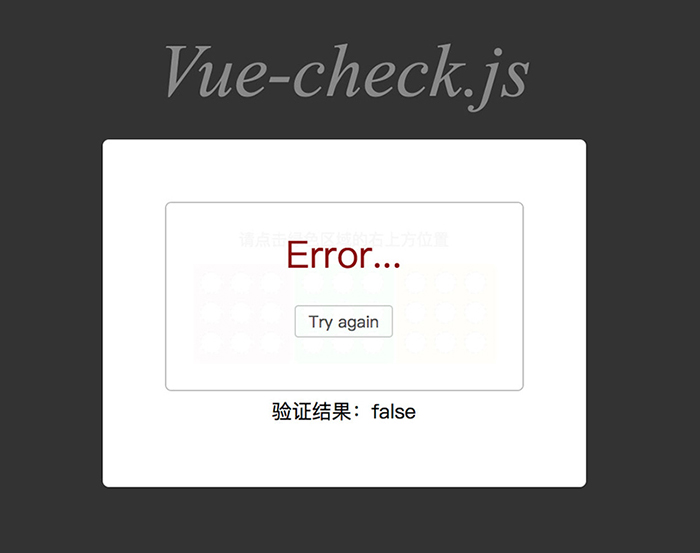
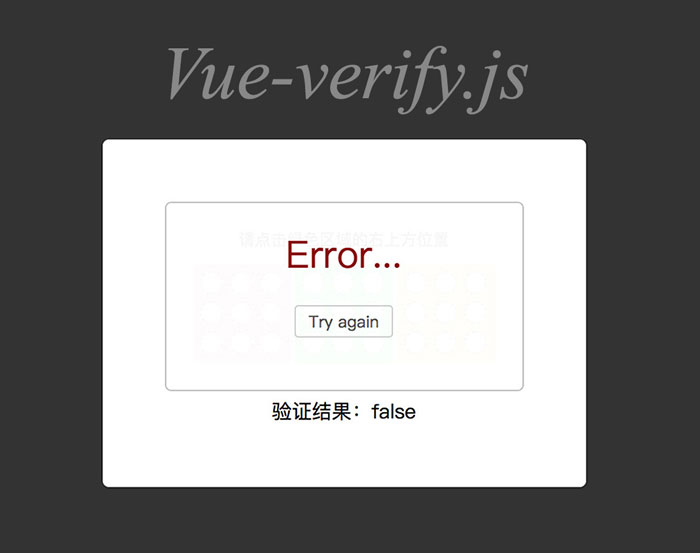
添加图形验证功能

Changed region(s): [[0.24, 0.0615, 0.75, 0.2152]]

diff --git a/assets/js/vue-verify.js b/assets/js/vue-verify.js
@@ -6,38 +6,39 @@
 
 	var Verify = {};
 	Verify.install = function (Vue, options) {
+		let def = {
+			mode:'position',
+			area: [
+				{ key: 1, value: 'rgb(255, 237, 237)', label: '红色' },
+				{ key: 2, value: 'rgb(208, 252, 223)', label: '绿色' },
+				{ key: 3, value: 'rgb(255, 240, 199)', label: '橘黄色' }
+			],
+			position: [
+				{ key: 1, label: '左上方位置' },
+				{ key: 2, label: '正上方位置' },
+				{ key: 3, label: '右上方位置' },
+				{ key: 4, label: '左边位置' },
+				{ key: 5, label: '中间位置' },
+				{ key: 6, label: '右边位置' },
+				{ key: 7, label: '左下方位置' },
+				{ key: 8, label: '正下方位置' },
+				{ key: 9, label: '右下方位置' }
+			],
+			success: 'Success!',
+			successSub: 'Good job,dude!',
+			error: 'Error...',
+			errorSub: 'Try again'
+		}
+		if (options) {
+			for (let property in options) {
+				if (options[property]) {
+					def[property] = options[property];
+				}
+			}
+		}
 		Vue.prototype.$verify = function ($el, cb) {
 			let toastTpl = Vue.extend({
 				data() {
-					let def = {
-						area: [
-							{ key: 1, value: 'rgb(255, 237, 237)', label: '红色' },
-							{ key: 2, value: 'rgb(208, 252, 223)', label: '绿色' },
-							{ key: 3, value: 'rgb(255, 240, 199)', label: '橘黄色' }
-						],
-						position: [
-							{ key: 1, label: '左上方位置' },
-							{ key: 2, label: '正上方位置' },
-							{ key: 3, label: '右上方位置' },
-							{ key: 4, label: '左边位置' },
-							{ key: 5, label: '中间位置' },
-							{ key: 6, label: '右边位置' },
-							{ key: 7, label: '左下方位置' },
-							{ key: 8, label: '正下方位置' },
-							{ key: 9, label: '右下方位置' }
-						],
-						success: 'Success!',
-						successSub: 'Good job,dude!',
-						error: 'Error...',
-						errorSub: 'Try again'
-					}
-					if (options) {
-						for (let property in options) {
-							if (options[property]) {
-								def[property] = options[property];
-							}
-						}
-					}
 					return {
 						opt: def,
 						area: null,
@@ -53,7 +54,9 @@
 							<div class="verify-area">\
 								<div class="verify-item" v-for="(item,index) in opt.area" :key="index" :style=" \'background:\'+item.value ">\
 									<div class="verify-item-wrap">\
-										<span v-for="i in 9" @click="userClick(item.key,i)"></span>\
+										<span v-for="(pos,idx) in opt.position" @click="userClick(item.key,pos.key)" :key="pos.key">\
+										{{ opt.mode === \'shape\' ? pos.label : \'\' }}\
+										</span>\
 									</div>\
 								</div>\
 							</div>\
@@ -65,17 +68,28 @@
 				},
 				methods: {
 					setNewVerify: function () {
+						if( this.opt.mode === 'shape' ){
+							let t, j,arr = this.opt.position,_LEN_ = arr.length;
+							while (_LEN_) { 
+								j = Math.floor(Math.random() * _LEN_--);
+								t = arr[_LEN_]; 
+								arr[_LEN_] = arr[j]; 
+								arr[j] = t; 
+							}
+						}
+
 						const AREA = this.opt.area, POSITION = this.opt.position;
 						//随机选取一个区域与位置
 						this.area = AREA[Math.floor(Math.random() * AREA.length)];
 						this.position = POSITION[Math.floor(Math.random() * POSITION.length)];
+						//console.log(111)
 					},
-					userClick: function (area, position) {
-						let verify = this.area.key === area && this.position.key === position;
-						this.showSuccess = verify;
-						this.showError = !verify;
+					userClick: function (a, b) {
+						let result = this.area.key === a && this.position.key === b;
+						this.showSuccess = result;
+						this.showError = !result;
 						//返回验证结果
-						if (cb) cb(verify);
+						if (cb) cb(result);
 					},
 					again: function () {
 						//重新初始验证

diff --git a/assets/css/index.css b/assets/css/index.css
@@ -1,1 +1,1 @@
-.verify{background:#fff;border-radius:5px;border:1px solid #bbb;position:relative;display:inline-block;padding:20px;text-align:center;font-size:13px;overflow:hidden}.verify .verify-title{padding-bottom:10px;color:#aaa}.verify .verify-area .verify-item{display:inline-block;width:80px;height:80px;border-radius:5px;border:1px solid #fff}.verify .verify-area .verify-item .verify-item-wrap{box-sizing:border-box;display:flex;flex-wrap:wrap;padding:3px 0 0 3px}.verify .verify-area .verify-item span{width:18px;height:18px;background:#fff;border-radius:50%;border:1px dashed #ccc;display:block;margin:3px;cursor:pointer;box-sizing:border-box}.verify .verify-area .verify-item span:hover{border:1px solid #bbb}.verify .verify-error,.verify .verify-success{position:absolute;z-index:2;width:100%;height:100%;left:0;box-sizing:border-box;padding:20px;background:rgba(255,255,255,.9);text-align:center;font-family:Arail;top:-100%;-webkit-transition:.3s ease 0s;-moz-transition:.3s ease 0s;-ms-transition:.3s ease 0s;transition:.3s ease 0s}.verify .verify-error p,.verify .verify-success p{font-size:30px;margin:0}.verify .verify-error span,.verify .verify-success span{font-size:15px;color:#555}.verify .verify-error .verify-btn,.verify .verify-success .verify-btn{border:1px solid #ccc;padding:3px 10px;display:inline-block;border-radius:3px;font-size:13px;margin-top:20px;cursor:pointer}.verify .verify-error .verify-btn:hover,.verify .verify-success .verify-btn:hover{background:#f5f5f5}.verify .verify-success p{color:#116311}.verify .verify-error p{color:#8b0f0f}.verify .verify-error.show,.verify .verify-success.show{top:0}
+.verify{background:#fff;border-radius:5px;border:1px solid #bbb;position:relative;display:inline-block;padding:20px;text-align:center;font-size:13px;overflow:hidden}.verify .verify-title{padding-bottom:10px;color:#aaa}.verify .verify-area .verify-item{display:inline-block;width:80px;height:80px;border-radius:5px;border:1px solid #fff}.verify .verify-area .verify-item .verify-item-wrap{box-sizing:border-box;display:flex;flex-wrap:wrap;padding:3px 0 0 3px}.verify .verify-area .verify-item span{width:18px;height:18px;background:#fff;border-radius:50%;border:1px dashed #ccc;display:block;margin:3px;cursor:pointer;box-sizing:border-box;text-align:center;line-height:18px;vertical-align:middle;font-size:15px;color:#555}.verify .verify-area .verify-item span:hover{border:1px solid #bbb}.verify .verify-error,.verify .verify-success{position:absolute;z-index:2;width:100%;height:100%;left:0;box-sizing:border-box;padding:20px;background:rgba(255,255,255,.9);text-align:center;font-family:Arail;top:-100%;-webkit-transition:.3s ease 0s;-moz-transition:.3s ease 0s;-ms-transition:.3s ease 0s;transition:.3s ease 0s}.verify .verify-error p,.verify .verify-success p{font-size:30px;margin:0}.verify .verify-error span,.verify .verify-success span{font-size:15px;color:#555}.verify .verify-error .verify-btn,.verify .verify-success .verify-btn{border:1px solid #ccc;padding:3px 10px;display:inline-block;border-radius:3px;font-size:13px;margin-top:20px;cursor:pointer}.verify .verify-error .verify-btn:hover,.verify .verify-success .verify-btn:hover{background:#f5f5f5}.verify .verify-success p{color:#116311}.verify .verify-error p{color:#8b0f0f}.verify .verify-error.show,.verify .verify-success.show{top:0}

diff --git a/index.html b/index.html
@@ -50,11 +50,28 @@
     <script src="https://cdn.jsdelivr.net/npm/vue@2.5.17/dist/vue.js"></script>
     <script src="./assets/js/vue-verify.js"></script>
     <script>
-        //使用插件
-        Vue.use(Verify)
+        //使用插件,默认九宫格定位
+        Vue.use(Verify);
+        
+        //使用随机图形验证  
+        /*
+        Vue.use(Verify,{
+            mode:'shape',
+            position: [
+                { key: 1, label: '❈' },
+                { key: 2, label: '✿' },
+                { key: 3, label: '✲' },
+                { key: 4, label: '☃' },
+                { key: 5, label: '❀' },
+                { key: 6, label: '☂' },
+                { key: 7, label: '❄' },
+                { key: 8, label: '✪' },
+                { key: 9, label: '♧' }
+            ] 
+        });
+        */
         //必要时掺入参数
         // Vue.use(Verify,{...})
-
 
         new Vue({
             el: '#app',
@@ -65,9 +82,9 @@
 
                 //执行插件 传入一个容器ID 和 一个回调函数
                 //回调函数返回验证结果
-                this.$verify('#verify-area', (verify) => {
+                this.$verify('#verify-area', (res) => {
                     //返回验证结果
-                    this.result = verify;
+                    this.result = res;
                 });
 
             }

diff --git a/assets/less/index.less b/assets/less/index.less
@@ -14,7 +14,8 @@
             }
             span{
                 width: 18px;height:18px;background:#fff;border-radius: 50%;border:1px dashed #ccc;
-                display: block;margin:3px;cursor: pointer;box-sizing:border-box;
+                display: block;margin:3px;cursor: pointer;box-sizing:border-box;text-align:center;line-height:18px;
+                vertical-align: middle;font-size:15px;color:#555;
                 &:hover{
                     border:1px solid #bbb;
                 }

diff --git a/README.md b/README.md
@@ -1,6 +1,6 @@
 # vue-verify.js
 
-这是一个验证码工具，基于vue编写；令人兴奋的是，它只需几行代码就能验证语义、颜色、九宫格定位以及鼠标的点击事件；
+这是一个验证码工具，基于vue编写；令人兴奋的是，它只需几行代码就能实现语义、颜色、九宫格定位、图形定位以及鼠标的点击事件五大验证；
 
 >[点击查看实例](https://749264345.github.io/vue-verify.js)
 
@@ -8,6 +8,7 @@
 > * 验证颜色区分
 > * 验证鼠标点击事件
 > * 验证九宫格定位
+> * 验证图形定位
 
 我们来尝试使用它;首先你确定已经引用了vue以及Vue-verify.js到你的项目中；
 ```html
@@ -18,10 +19,25 @@
 </div>
 ```
 ```javasript 
-//使用插件
-Vue.use(Verify)
+//使用插件,默认九宫格定位
+//Vue.use(Verify);
 
-//必要时传入选项；下面将详细说明
+//使用随机图形验证  
+Vue.use(Verify,{
+    mode:'shape',
+    position: [
+        { key: 1, label: '❈' },
+        { key: 2, label: '✿' },
+        { key: 3, label: '✲' },
+        { key: 4, label: '☃' },
+        { key: 5, label: '❀' },
+        { key: 6, label: '☂' },
+        { key: 7, label: '❄' },
+        { key: 8, label: '✪' },
+        { key: 9, label: '♧' }
+    ] 
+});
+//必要时掺入参数
 // Vue.use(Verify,{...})
 
 new Vue({
@@ -46,6 +62,8 @@ new Vue({
 ## 1.选项说明
 ```javascript
 Vue.use(verify,{
+    //验证模式，默认position，可选shape,使用图形验证
+    mode:'position',
 
     //区域选项，area为一个数组，可以传入任意多个
     //key为必传参数，不可重复，value为区域颜色，label作为语义理解
@@ -58,6 +76,7 @@ Vue.use(verify,{
     //九宫格位置选项，position为一个数组，默认为九个
     //根据需要可传入任意多个
     //key与label为必传参数，不可重复，必须一一对应
+    //使用图形验证时，label为可设置形状，如☺☻❀⚘♔♕♖等特殊字符
     position:[
     	{key:1,label:'左上方位置'},
     	{key:2,label:'正上方位置'},
@@ -83,8 +102,10 @@ Vue.use(verify,{
     errorSub:'Try again'
 })
 ```
-##### 主界面
-![ui](https://raw.githubusercontent.com/749264345/vue-verify.js/master/check.jpg)
+##### 九宫格方位验证
+![ui](https://raw.githubusercontent.com/749264345/vue-verify.js/master/position.jpg)
+##### 图形验证
+![ui](https://raw.githubusercontent.com/749264345/vue-verify.js/master/shape.jpg)
 ##### 验证成功
 ![success](https://raw.githubusercontent.com/749264345/vue-verify.js/master/success.jpg)
 ##### 验证失败
